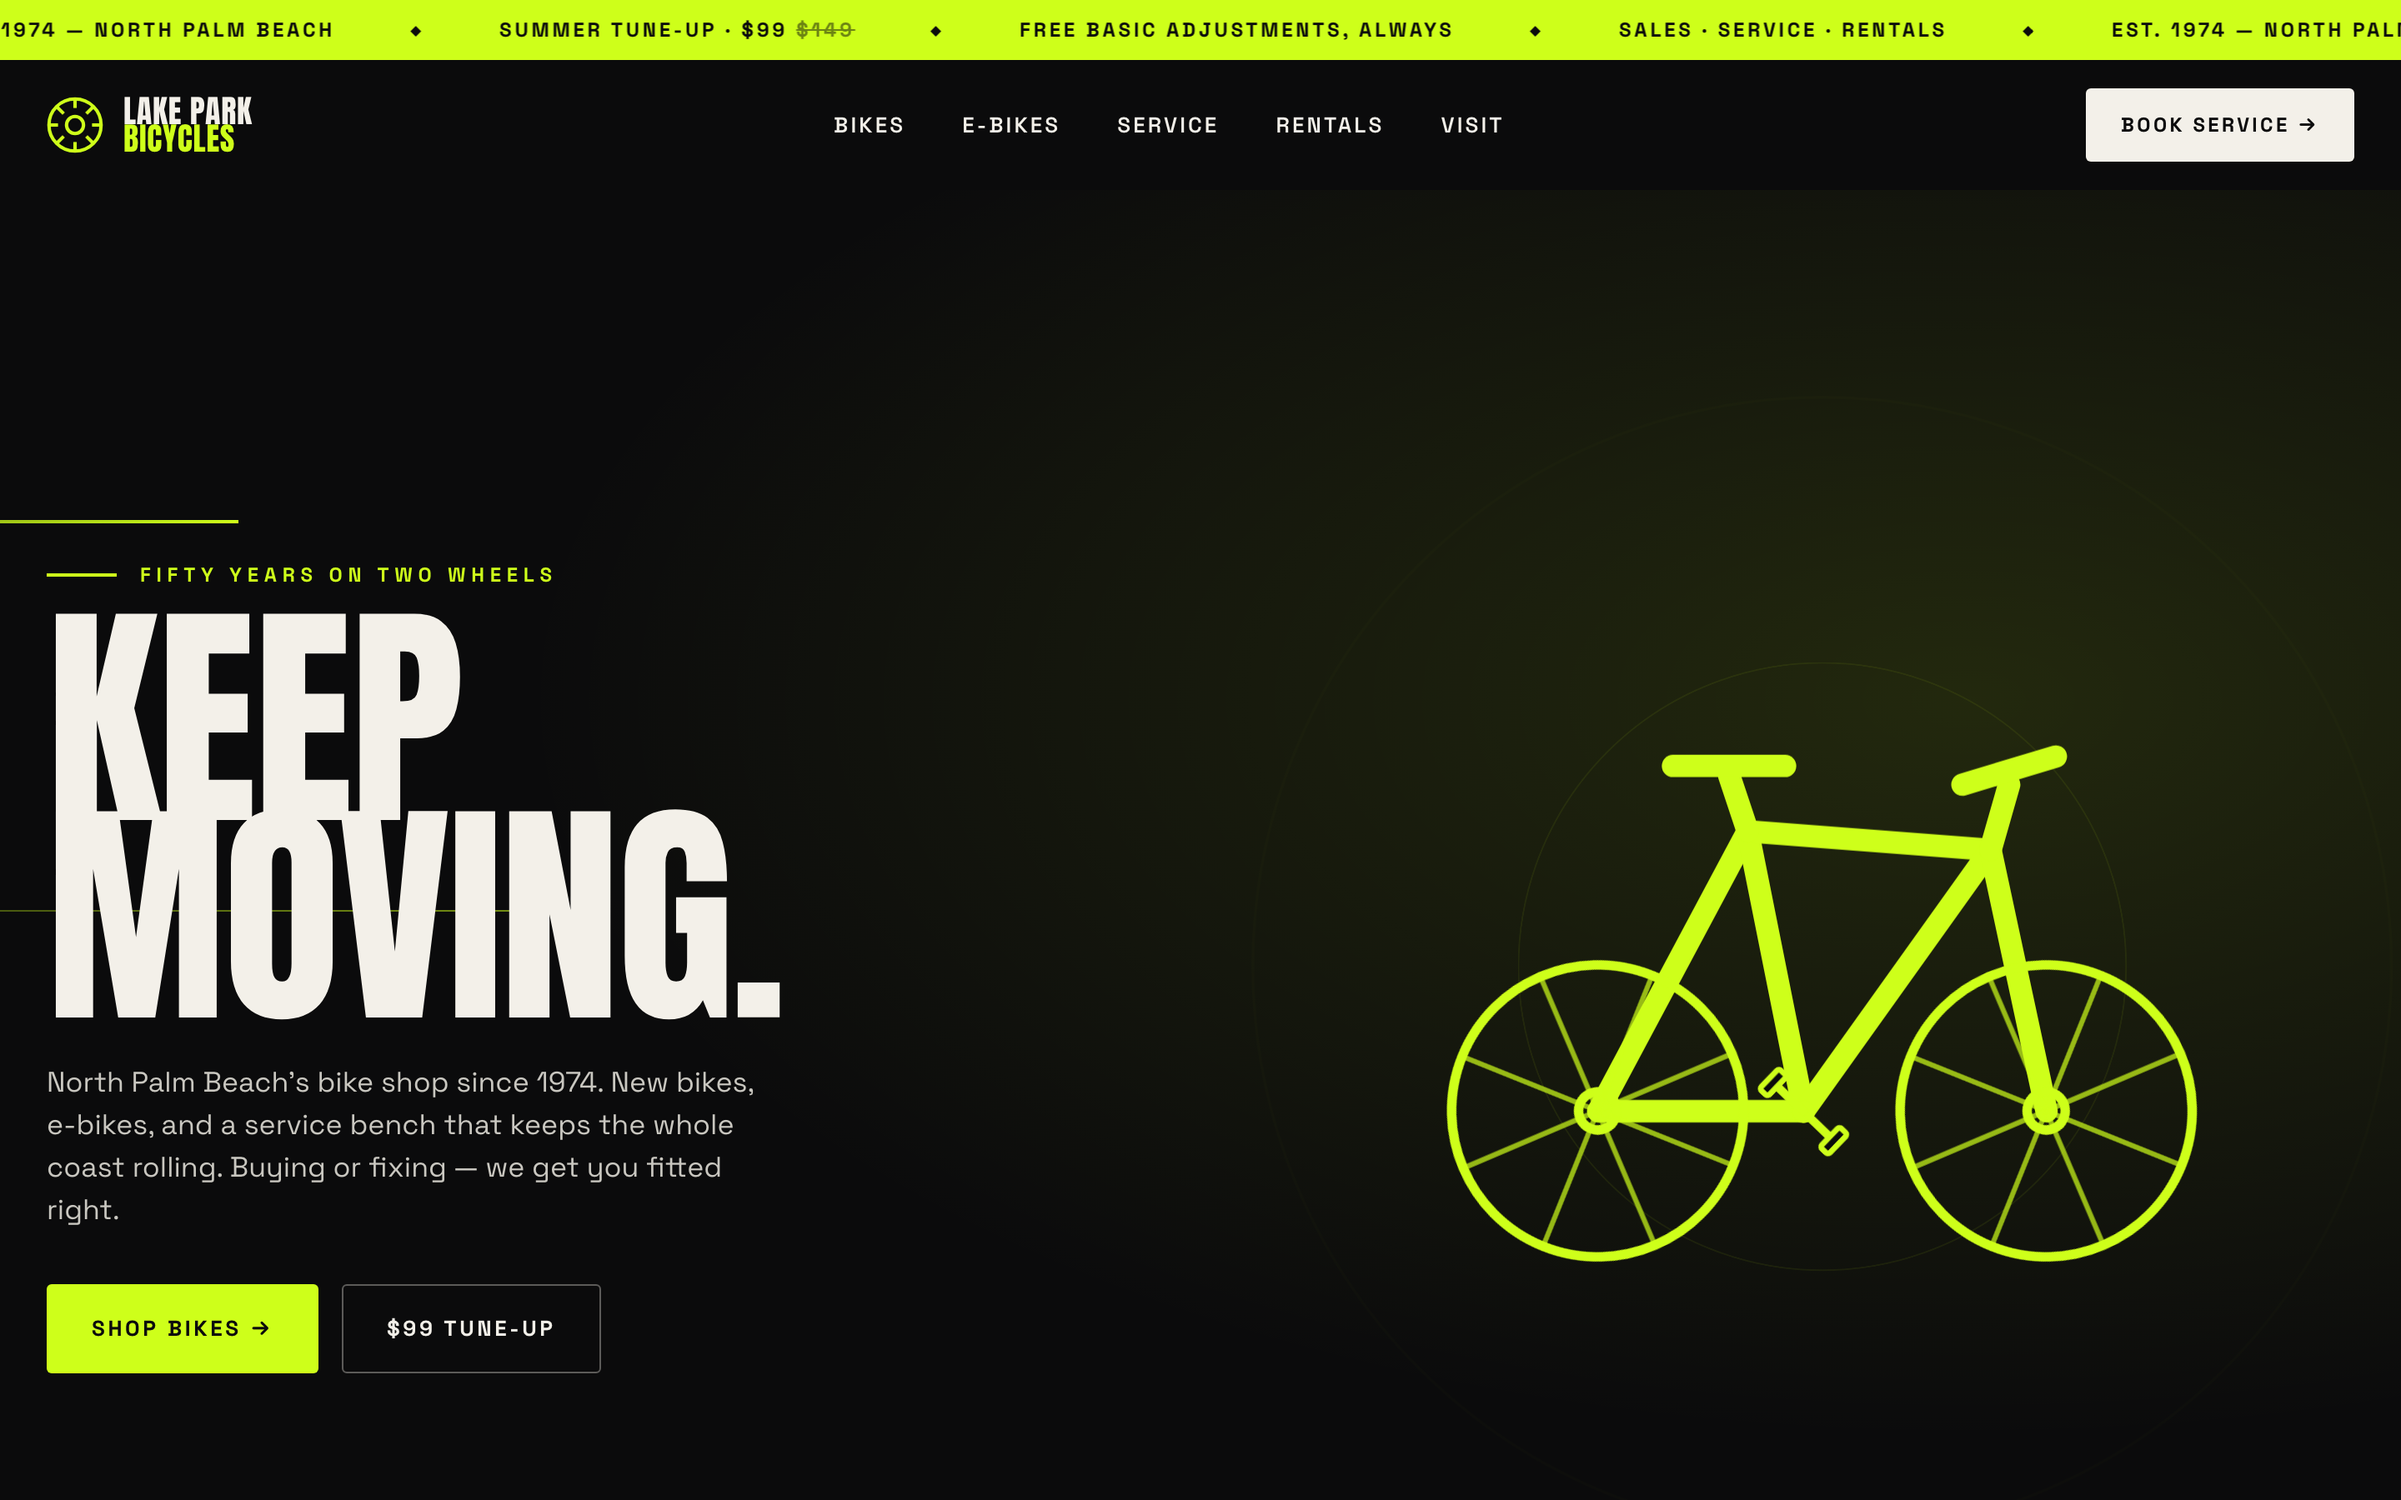
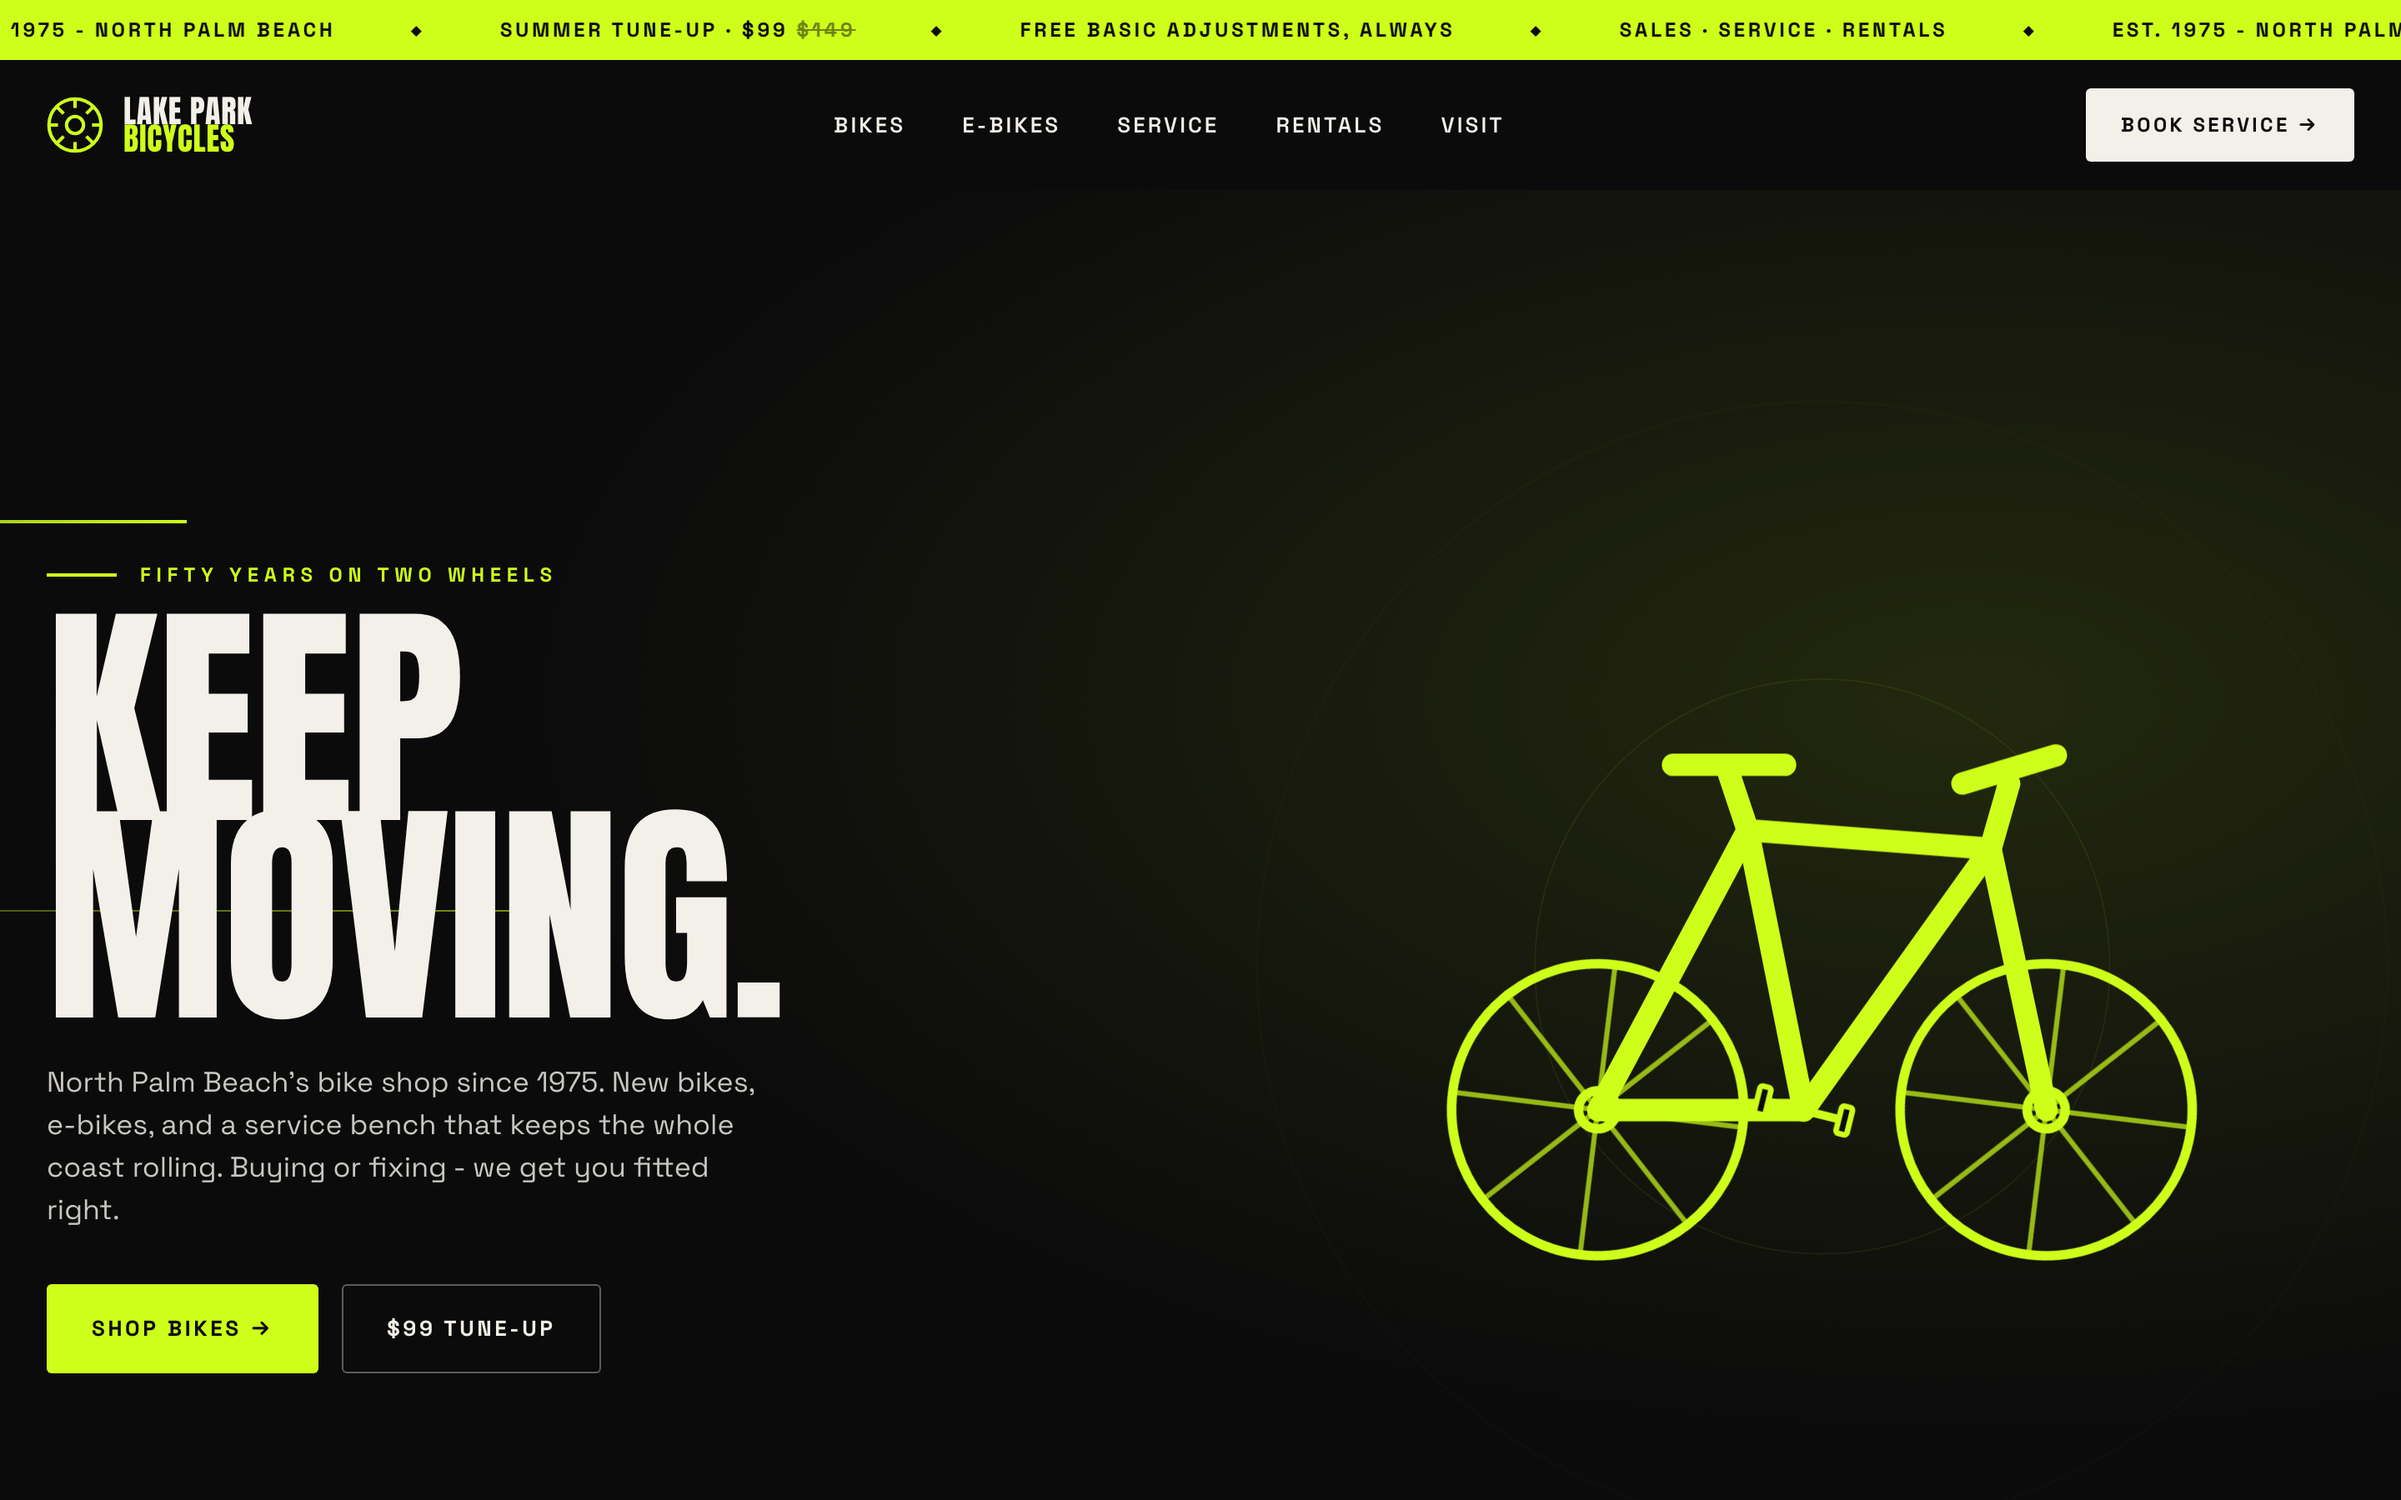
Homepage proof/contact: fresh Lake Park screenshot (Est. 1975), swap Dr. ColorChip -> Shanti Yoga, remove email everywhere, add in-person(33418)/Zoom coffee logic

diff --git a/index.html b/index.html
@@ -153,7 +153,7 @@
       <h2 class="h2" data-reveal data-reveal-delay="80">No pitch. No pressure. Just coffee and a real look at your business.</h2>
     </div>
     <div class="gm-steps">
-      <div class="gm-step" data-reveal><div class="n">1</div><h3>We grab coffee</h3><p>In person or on a call. You tell me about your business, your goals, and where it hurts most. That's it - no slides, no sales pitch.</p></div>
+      <div class="gm-step" data-reveal><div class="n">1</div><h3>We grab coffee</h3><p>In person if you're near Palm Beach Gardens, or a quick Zoom if you're not. You tell me about your business, your goals, and where it hurts most - no slides, no sales pitch.</p></div>
       <div class="gm-step" data-reveal data-reveal-delay="80"><div class="n">2</div><h3>I dig in</h3><p>I look at your website, your market, and your competitors, and find exactly where you're leaving money on the table - and where the fastest wins are.</p></div>
       <div class="gm-step" data-reveal data-reveal-delay="160"><div class="n">3</div><h3>I show you what's possible</h3><p>A clear, honest picture of what we could do together. If we're a fit, great. If not, you still walk away with a plan worth having.</p></div>
     </div>
@@ -235,7 +235,7 @@
     </div>
     <div style="display:flex;flex-direction:column;gap:24px;">
       <div class="ba-card" data-reveal>
-        <div class="ba-head"><h3 class="h3">Lake Park Bicycles</h3><span class="ba-tag">Retail &middot; Bike Shop since 1974</span></div>
+        <div class="ba-head"><h3 class="h3">Lake Park Bicycles</h3><span class="ba-tag">Retail &middot; Bike Shop since 1975</span></div>
         <div class="ba-row">
           <div><div class="ba-lab">Before <span class="sm">&middot; lakeparkbicycles.com</span></div><div class="ba-shot before"><img src="img/before_lakeparkbicycles.png" alt="before"></div></div>
           <div class="ba-arrow">&rarr;</div>
@@ -251,11 +251,11 @@
         </div>
       </div>
       <div class="ba-card" data-reveal>
-        <div class="ba-head"><h3 class="h3">Dr. ColorChip</h3><span class="ba-tag">Automotive E-commerce</span></div>
+        <div class="ba-head"><h3 class="h3">Shanti Yoga Shala</h3><span class="ba-tag">Fitness &amp; Wellness</span></div>
         <div class="ba-row">
-          <div><div class="ba-lab">Before <span class="sm">&middot; drcolorchip.com</span></div><div class="ba-shot before"><img src="img/before_drcolorchip.png" alt="before"></div></div>
+          <div><div class="ba-lab">Before</div><div class="ba-shot before"><img src="img/before_shanti-yoga.png" alt="before"></div></div>
           <div class="ba-arrow">&rarr;</div>
-          <div><div class="ba-lab after">After <span class="sm">&middot; our redesign concept</span></div><div class="ba-shot after"><img src="img/after_drcolorchip_v2.png" alt="after"></div></div>
+          <div><div class="ba-lab after">After <span class="sm">&middot; our redesign</span></div><div class="ba-shot after"><img src="img/after_shanti-yoga.png" alt="after"></div></div>
         </div>
       </div>
     </div>
@@ -270,7 +270,7 @@
         <h2 style="font-family:var(--disp);font-weight:700;font-size:clamp(32px,4.5vw,56px);line-height:1.04;letter-spacing:-.03em;color:#fff;margin:0 auto 20px;max-width:720px;">Let's have that <span class="o-text">coffee.</span></h2>
         <p style="font-size:17px;line-height:1.55;color:rgba(255,255,255,.72);max-width:560px;margin:0 auto 36px;">Tell me about your business. I'll show you what's possible. Twenty minutes could change how you grow - and it costs you nothing but the coffee.</p>
         <a class="btn btn-primary btn-lg" href="https://calendly.com/gustavomitchell/coffee">Book a time with me <span class="arw">&rarr;</span></a>
-        <p class="gm-cta-note">Prefer email? gm@nebuluxury.com</p>
+        <p class="gm-cta-note">Within about 20 miles of Palm Beach Gardens (33418)? The coffee is on me, in person. Farther out? We will do a quick Zoom.</p>
       </div>
     </div>
   </section>
@@ -297,7 +297,7 @@
       <h4>Let's talk</h4>
       <div class="links">
         <a href="https://calendly.com/gustavomitchell/coffee">Book a coffee</a>
-        <a href="mailto:gm@nebuluxury.com">gm@nebuluxury.com</a>
+        <a href="https://calendly.com/gustavomitchell/coffee">In person near 33418, or Zoom</a>
       </div>
     </div>
   </div>
